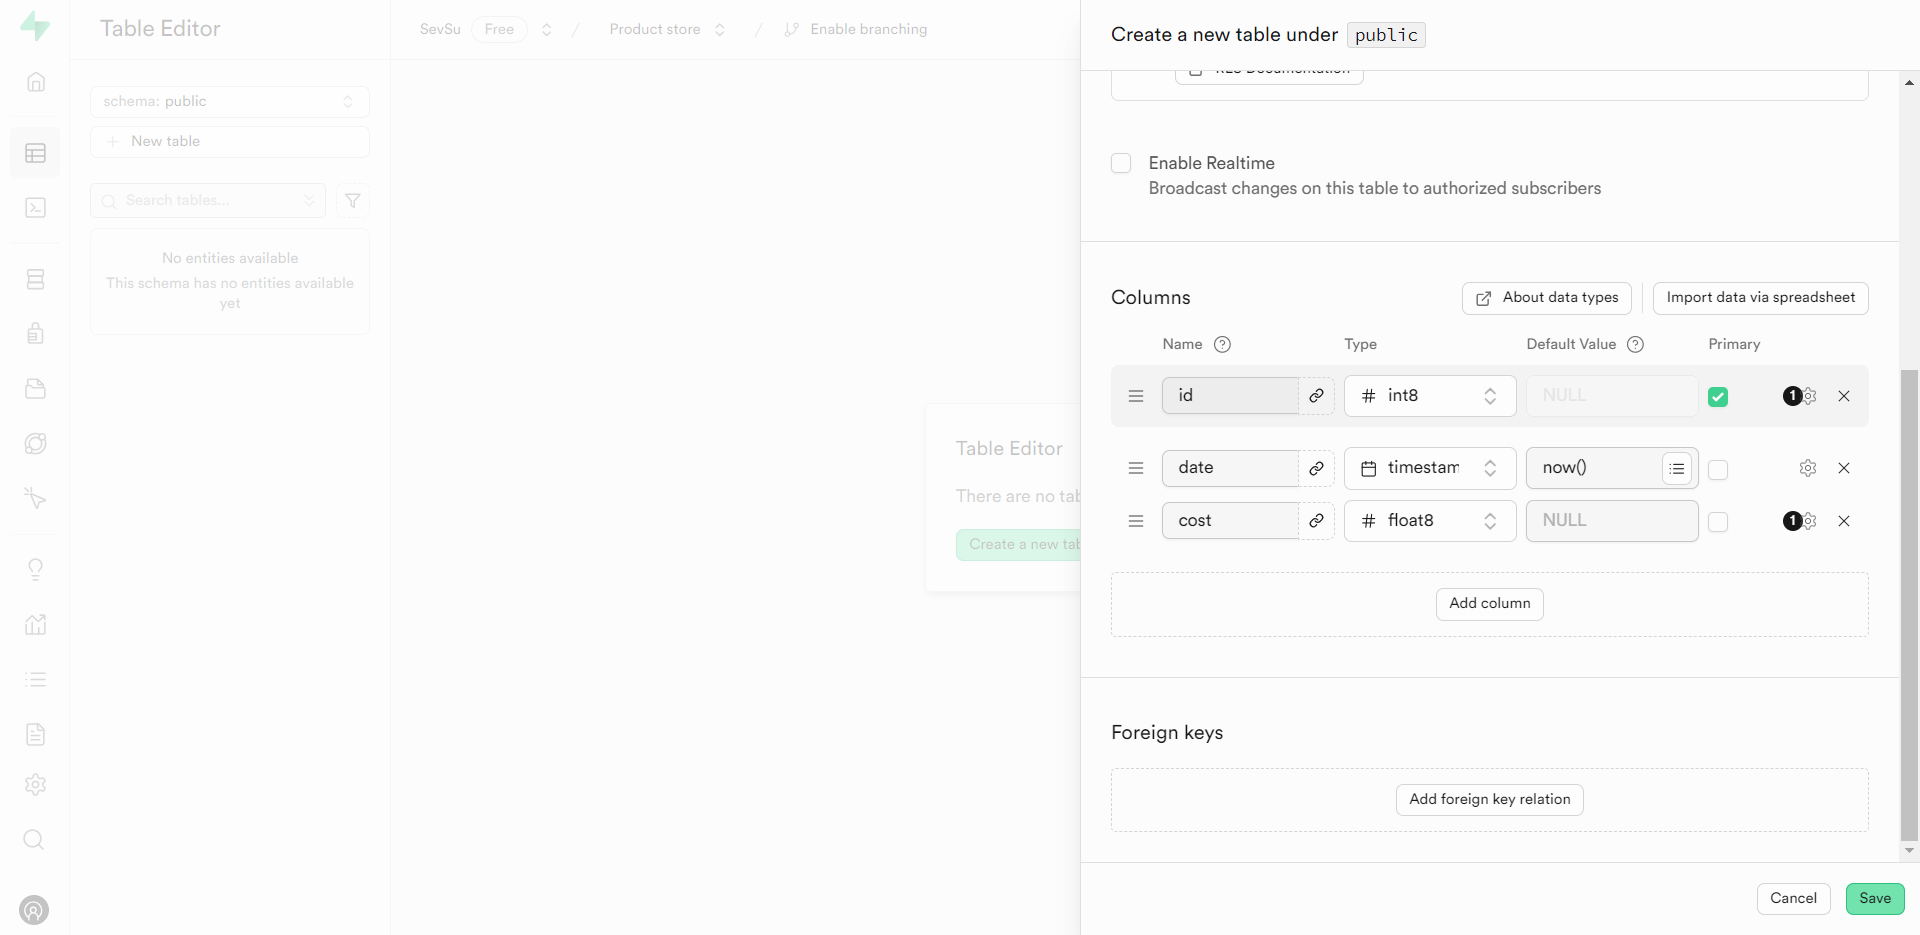
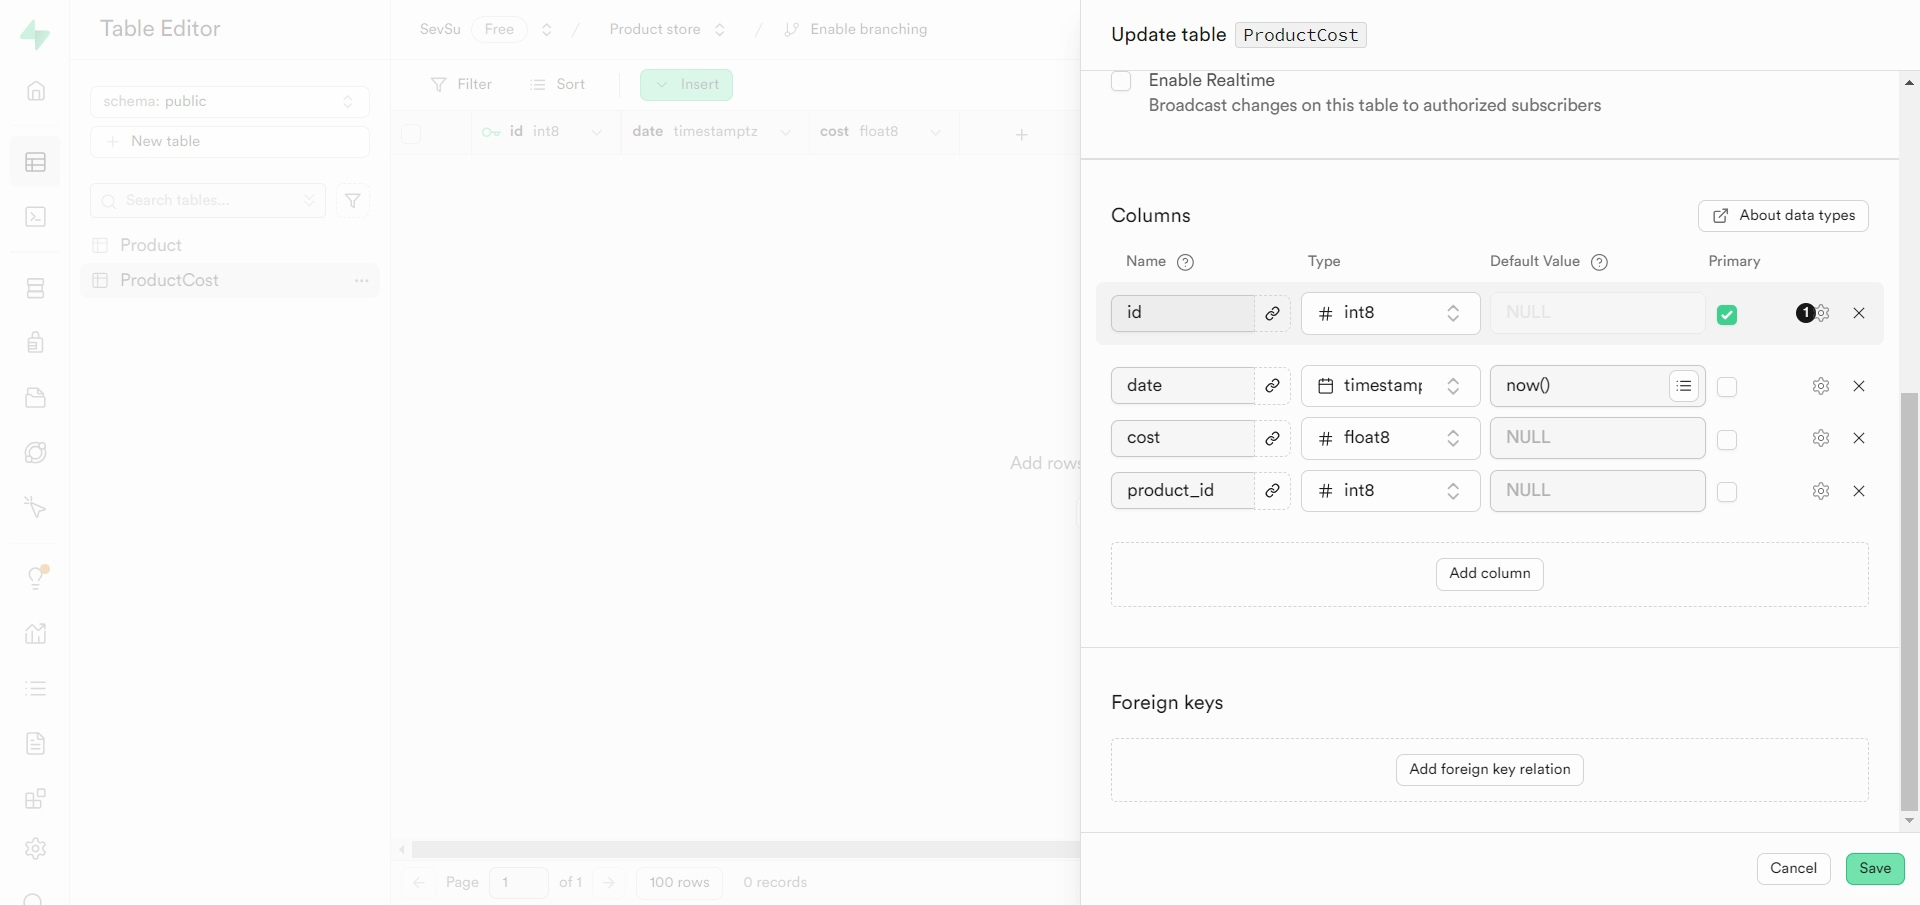
Добавлено создание внешних ключей via Table Editor

diff --git a/tables/index.md b/tables/index.md
@@ -1,6 +1,7 @@
-// TODO: Шаг 3.4, 3.6; Шаг 4 (полностью); Шаг 5 (полностью); Шаг 7 (картинка)
+// TODO: Шаг 3.6 (забить или нет?); Шаг 4 (вроде есть?); Шаг 5 (вроде сделан??); 
+// Шаг 7 (картинка)
 
-# Руководство по созданию таблицы в Supabase с использованием Table Editor
+# Руководство по созданию таблиц в Supabase с использованием Table Editor и SQL Editor
 
 В этом руководстве мы рассмотрим шаги по созданию таблиц проекта в сервисе Supabase. Будет рассмотрено два метода: используя Table Editor и используя SQL Editor.
 
@@ -41,7 +42,7 @@
 
    ![Ссылка на документацию по безопасности на уровне строк (RLS)](images/table_editor/new_table_creation_rls_documentation-focus.png)
 
-4. Если вам необходимо, чтобы таблица поддерживала обновление данных в реальном времени, поставьте галочку возле опции **Enable Realtime**. По умолчанию эта опция отключена.
+4. Рассылку изменений в этой таблице авторизованным пользователям можно настроить, поставив галочку возле опции **Enable Realtime**. Мы оставим это поле незаполненным.
 
    ![Режим реального времени](images/table_editor/new_table_creation_realtime-focus.png)
 
@@ -49,30 +50,95 @@
 
    ![Типы данных](images/table_editor/new_table_creation_about_data_types-focus.png)
 
-6. **Import data via spreadsheet** —    импортируйте данные для таблицы (например, CSV-файл), если необходимо предварительно заполнить таблицу данными.
+6. **Import data via spreadsheet** — импортируйте данные для таблицы (например, CSV-файл), если необходимо предварительно заполнить таблицу данными.
 
    ![Импортировать сводную таблицу](images/table_editor/new_table_creation_import_spreadsheet-focus.png)
 
 ### Шаг 4: Добавление столбцов
 
-1. Перейдите к добавлению столбцов с помощью опции **Add Column**.
+1. В разделе **Columns** можно настроить столбцы таблицы. По умолчанию для каждой таблицы создаются столбцы `id` и `created_at` (время создания записи).
+
+2. Для того, чтобы создать собственные столбцы, необходимо перейти к добавлению столбцов с помощью опции **Add Column**.
    ![Добавление нового столбца](images/table_editor/columns/add_column-focused.png)
-2. Для каждого столбца:
+3. Для каждого столбца:
    - Укажите **Name** (например, "product_name").
    - Выберите **Type** из предложенного списка (например, `text` или `integer`).
    ![Выбор типа данных для столбца](images/table_editor/columns/type-open.png)
-   - Укажите значения по умолчанию, если это необходимо.
+   - Укажите значения, выставляемые у этого атрибута по умолчанию, если это необходимо.
+  ![alt text](images/table_editor/columns/default_value_suggested_expressions-focused.png)
    - Вы можете установить столбец как **Primary Key** или добавить внешние связи.
+![alt text](images/table_editor/columns/primary_key_check-focused.png)
 
-### Шаг 5: Настройка значений по умолчанию и дополнительных опций
 
-1. В интерфейсе каждого столбца доступны дополнительные параметры, например, **Default Value** и **Foreign Key Relation**.
-2. Настройте параметры, такие как значение по умолчанию или дополнительные атрибуты, если требуется.
+### Шаг 5: Настройка внешних ключей (Foreign keys)
 
-   ![Значение по умолчанию](images/table_editor/columns/default_value-focused.png)
+   Если какое-нибудь поле вашей таблицы зависит от значений из другой таблицы, эту зависимость необходимо указать при помощи внешних ключей.
+   Чтобы настроить внешний ключ таблицы, требуется перейти в раздел **Foreign keys** и нажать на кнопку **Add foreign key relation**.
+
    ![Установка внешнего ключа](images/table_editor/columns/add_foreign_key_relation-focused.png)
 
-### Шаг 6: Завершение создания таблицы
+   Далее открывается окно настройки внешнего ключа в таблице ProductCost. При нажатии на иконку с двумя диагональными стрелками, раскрывается ссылка на [документацию](https://www.postgresql.org/docs/current/tutorial-fk.html) по внешним ключам.
+
+   ![product_cost_info_expand-focus](images/table_editor/foreign_keys/product_cost_info_expand-focus.jpg)
+
+   ![product_cost_info_documentation-focus](images/table_editor/foreign_keys/product_cost_info_documentation-focus.jpg)
+
+ Далее следует убедиться, что выбрана правильная схема базы данных (в нашем случае **public**)
+
+![alt text](image.png)
+
+Затем необходимо выбрать таблицу, на которую будут ссылаться выбранные столбцы. В нашем примере выбираем таблицу Product.
+
+![alt text](image-1.png)
+![alt text](image-2.png)
+
+После выбора таблицы необходимо назначить зависимый столбец (поле слева) и основной столбец (поле справа). 
+
+![alt text](image-3.png)
+![alt text](image-4.png)
+
+Если вы хотите удалить внешний ключ, нажмите на иконку крестика.
+
+![alt text](image-5.png)
+
+Если требуется добавить ещё один внешний клююч, нажмите **Add another column**.
+
+![alt text](image-6.png)
+
+Создание внешнего ключа образует связь между столбцами из разных таблиц. Наличие связи, в свою очередь, требует описания действий таблиц при удалении и обновлении записей. Больше информации о действиях можете узнать, перейдя [по ссылке](https://www.postgresql.org/docs/current/ddl-constraints.html#DDL-CONSTRAINTS-FK).
+
+![alt text](image-7.png)
+![alt text](image-8.png)
+
+В следующем поле мы выбираем действие, которое будет выполняться при обновлении записи в таблице. По умолчанию выставлено значение No action (отсутствие действия).
+![alt text](image-9.png)
+
+Далее мы выбираем действие, которое будет выполняться при удалении записи в таблице. По умолчанию также выставлено значение No action (отсутствие действия).
+
+![alt text](image-11.png)
+
+При раскрытии меню с действиями можно увидеть их полный список: **Cascade** (каскадирование), **Restrict** (предотвращение), set **default** (задать значение по умолчанию), **set NULL** (задать значение NULL).
+
+![alt text](image-12.png)
+
+Чаще всего, при установке внешнего ключа выбирается действие каскадирования. Более подробно про каскадирование таблиц можно узнать, перейдя [по ссылке на документацию](https://supabase.com/docs/guides/database/postgres/cascade-deletes).
+
+![alt text](image-10.png)
+
+Полностью заполненная форма создания внешнего ключа между таблицами Product и ProductCost представлена на скринах ниже:
+
+![foreign key product and product_cost product 1](image-15.png)
+![foreign key product and product_cost product 2](image-16.png)
+
+Если Вы хотите отменить изменения, нажмите **Cancel**.
+
+![cancel](image-13.png)
+
+Для сохранения всех изменений, нажмите **Save**.
+
+![save](image-14.png)
+
+### Шаг 6: Завершение создания таблиц
 
 1. После заполнения всех необходимых данных и параметров для создания таблицы, вы увидите готовую таблицу к сохранению:
 
@@ -83,11 +149,9 @@ Description: Тип продуктов
 
    ![Заполненные данные для создания таблицы, 1](images/table_editor/new_table_creation_1st_half.png)
    ![Заполненные данные для создания таблицы, 2](images/table_editor/new_table_creation_2nd_half.png)
-
 2. Если хотите отменить создание таблицы, используйте опцию отмены **Cancel**.
 
    ![Отмена создания таблицы](images/table_editor/new_table_creation_cancel-focus.png)
-
 3. Убедитесь, что все столбцы добавлены, и параметры настроены. После завершения всех настроек нажмите **Save**, чтобы создать таблицу.
 
    ![Сохранить таблицу](images/table_editor/new_table_creation_save-focus.png)
